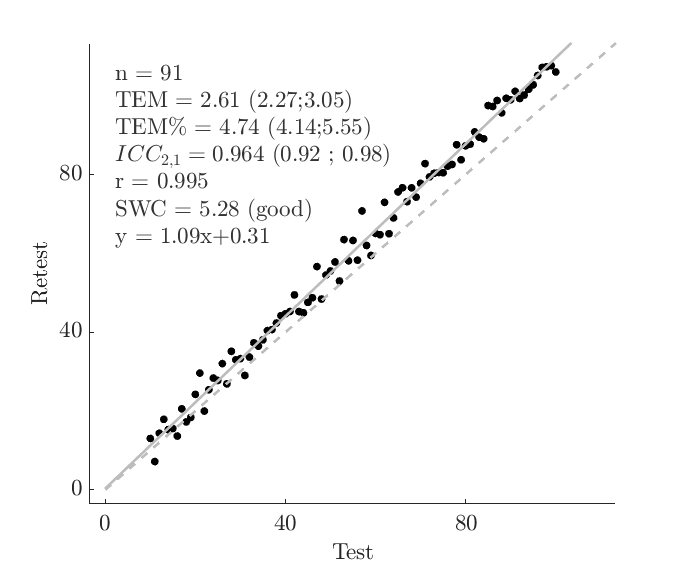
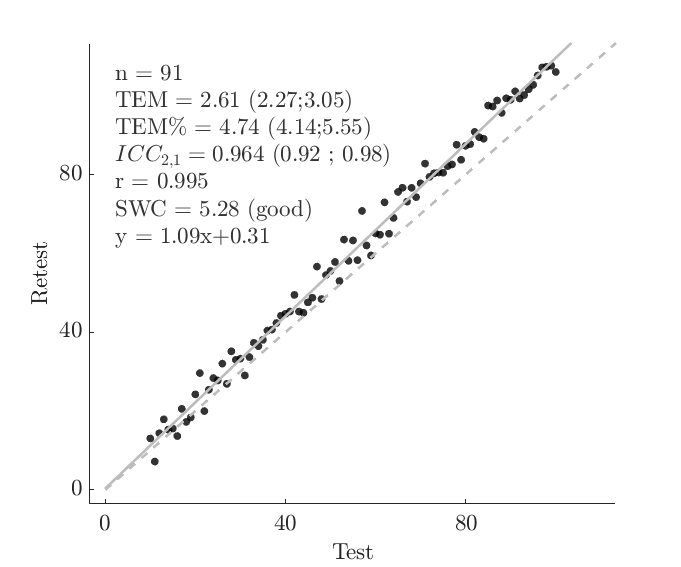
Add files via upload

diff --git a/correlPlot.m b/correlPlot.m
@@ -11,36 +11,29 @@ function [structStat] = correlPlot(criterion,essaiB,cond,color)
 %   By default cond = 'valid'
 %
 %
-%   correlPlot(criterion,essaiB,cond,'dark') forces a white, grey and black correlation plot
+%   correlPlot(criterion,essaiB,cond,color) use your own color with 2 colors : scatter data color with the first line and identity line & fitting line with last line color
 %
-%   [structStat] = correlPlot(criterion,essaiB,cond) returns a structure
+%   [structStat] = correlPlot(criterion,essaiB,cond,col) returns a structure
 %   object with statistical parameters displayed on the plot.
 %
 %   See also SCATTER, FITLM, LINE.
+%   https://github.com/PabRD/plotReliabilityValidity/blob/main/README.md
 %   @MatPab
 
-col  =    [0.2510         0    0.2941
-    0.4627    0.1647    0.5137
-    0.6000    0.4392    0.6706
-    0.7608    0.6471    0.8118
-    0.9059    0.8314    0.9098
-    0.9686    0.9686    0.9686
-    0.8510    0.9412    0.8275
-    0.6510    0.8588    0.6275
-    0.3529    0.6824    0.3804
-    0.1059    0.4706    0.2157
-    0    0.2667    0.1059];
-colData = [0.4627    0.25    0.5137];
+col  =    [0 0 0; 0.7412 0.7412 0.7412];
+colData = col(1,:);
 
 if nargin==2
     
     cond  = "valid";
     
 elseif nargin==4
-    if strcmpi(color,'dark')
-        col = cbrewer('seq','Greys',9);
-        colData = col(end,:);
-        
+    if size(color,1)==1
+        col = color;
+        colData = color;
+    else
+        col = color;
+        colData = col(1,:);
     end
     
 end
@@ -60,14 +53,14 @@ else
 end
 
 % scatter(essaiA,essaiB,35,[0.4627    0.25    0.5137],'filled')
-scatter(criterion,essaiB,35,colData(end,:),'filled')
+scatter(criterion,essaiB,35,colData(end,:),'filled','MarkerFaceAlpha',0.8)
 
 hold on
 lim  = ceil(max([criterion essaiB],[],'all'))+0.05*max([criterion essaiB],[],'all');
-plot([0 lim],[0 lim],'Color',col(4,:),'LineStyle','--','LineWidth',2)
+plot([0 lim],[0 lim],'Color',col(end,:),'LineStyle','--','LineWidth',2)
 % plot([0 lim],[0 lim],'Color',col(4,:),'LineStyle','--','LineWidth',2)
 f_fitV0 = @(x) coeff(2)*x+coeff(1);
-fplot(f_fitV0,[0 lim],'Color',col(4,:),'LineWidth',2)
+fplot(f_fitV0,[0 lim],'Color',col(end,:),'LineWidth',2)
 ylim([min([criterion essaiB],[],'all')-0.1*max([criterion essaiB],[],'all') lim])
 xlim([min([criterion essaiB],[],'all')-0.1*max([criterion essaiB],[],'all') lim])
 
@@ -80,7 +73,7 @@ if strcmpi(cond,'valid')
     
     sY = std(criterion,'omitnan'); %sd criterion
     sEE = sY*(sqrt((1-mdl.Rsquared.Ordinary)*((nbSuj-1)/(nbSuj-2))));       % Siegel and al. (2016) Practical Business Statistics (Sixth Edition), page 325
-    lB95 = sqrt((nbSuj-1)*sEE^2/(chi2inv(1-(1-0.95)/2,nbSuj-1)));           
+    lB95 = sqrt((nbSuj-1)*sEE^2/(chi2inv(1-(1-0.95)/2,nbSuj-1)));
     uB95 = sqrt((nbSuj-1)*sEE^2/(chi2inv((1-0.95)/2,nbSuj-1)));
     
     
@@ -127,9 +120,9 @@ elseif strcmpi(cond,'repro')
     TEM = std(diff([criterion essaiB],1,2))/sqrt(2);                           % Hopkins 2009: Typical Error of Measurement
     TEM100 = TEM/mean(criterion)*100;                                          % TEM as coefficient of variation (%)
     
-    lB95 = sqrt((nbSuj-1)*TEM^2/(chi2inv(1-(1-0.95)/2,nbSuj-1)));           
+    lB95 = sqrt((nbSuj-1)*TEM^2/(chi2inv(1-(1-0.95)/2,nbSuj-1)));
     uB95 = sqrt((nbSuj-1)*TEM^2/(chi2inv((1-0.95)/2,nbSuj-1)));
-
+    
     
     %     SDo = std(essaiA);
     %     SDp = SDo*sqrt(iccData);
